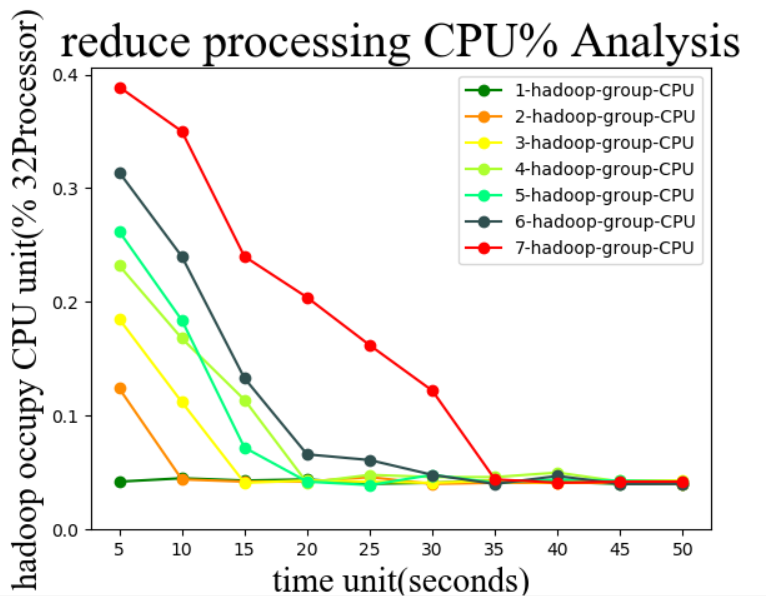
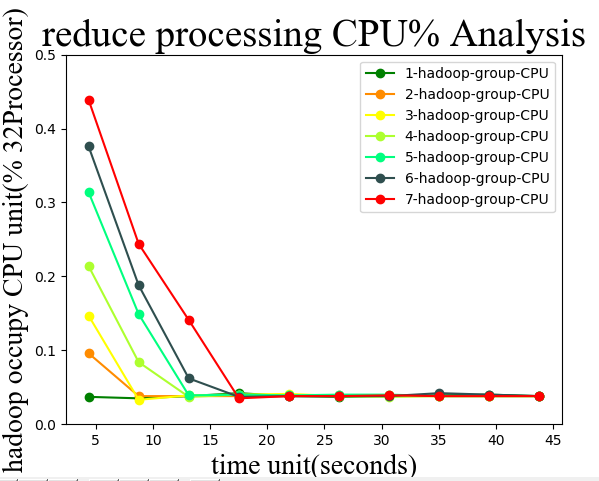
revise x interval from int to float

diff --git a/multi_group_cpu_reduce_contrast.py b/multi_group_cpu_reduce_contrast.py
@@ -1,14 +1,24 @@
 import numpy as np
 import matplotlib.pyplot as plt
 
-t = range(5,55,5)
-CPU_1 = [0.042, 0.045, 0.043, 0.044, 0.04, 0.041, 0.043, 0.042, 0.04, 0.04]
-CPU_2 = [0.124, 0.044, 0.042, 0.042, 0.046, 0.04, 0.041, 0.041, 0.041, 0.04]
-CPU_3 = [0.185, 0.112, 0.041, 0.043, 0.042, 0.041, 0.043, 0.041, 0.043, 0.043]
-CPU_4 = [0.232, 0.168, 0.114, 0.041, 0.048, 0.046, 0.046, 0.05, 0.042, 0.04]
-CPU_5 = [0.262, 0.184, 0.072, 0.042, 0.039, 0.048, 0.041, 0.044, 0.043, 0.042]
-CPU_6 = [0.314, 0.24, 0.133, 0.066, 0.061, 0.048, 0.04, 0.047, 0.04, 0.04]
-CPU_7 = [0.389, 0.35, 0.24, 0.204, 0.162, 0.122, 0.044, 0.041, 0.042, 0.042]
+t = np.arange(4.38,44,4.38)
+# CPU_1 = [0.042, 0.045, 0.043, 0.044, 0.04, 0.041, 0.043, 0.042, 0.04, 0.04]
+# CPU_2 = [0.124, 0.044, 0.042, 0.042, 0.046, 0.04, 0.041, 0.041, 0.041, 0.04]
+# CPU_3 = [0.185, 0.112, 0.041, 0.043, 0.042, 0.041, 0.043, 0.041, 0.043, 0.043]
+# CPU_4 = [0.232, 0.168, 0.114, 0.041, 0.048, 0.046, 0.046, 0.05, 0.042, 0.04]
+# CPU_5 = [0.262, 0.184, 0.072, 0.042, 0.039, 0.048, 0.041, 0.044, 0.043, 0.042]
+# CPU_6 = [0.314, 0.24, 0.133, 0.066, 0.061, 0.048, 0.04, 0.047, 0.04, 0.04]
+# CPU_7 = [0.389, 0.35, 0.24, 0.204, 0.162, 0.122, 0.044, 0.041, 0.042, 0.042]
+
+
+
+CPU_1 = [0.037, 0.035, 0.038, 0.042, 0.038, 0.037, 0.038, 0.039, 0.040, 0.038]
+CPU_2 = [0.096, 0.038, 0.038, 0.038, 0.038, 0.039, 0.038, 0.038, 0.038, 0.038]
+CPU_3 = [0.147, 0.033, 0.039, 0.04, 0.041, 0.038, 0.039, 0.038, 0.038, 0.038]
+CPU_4 = [0.214, 0.084, 0.037, 0.04, 0.039, 0.038, 0.037, 0.038, 0.038, 0.038]
+CPU_5 = [0.314, 0.149, 0.039, 0.04, 0.039, 0.04, 0.04, 0.038, 0.038, 0.038]
+CPU_6 = [0.376, 0.188, 0.062, 0.037, 0.038, 0.038, 0.038, 0.042, 0.04, 0.038]
+CPU_7 = [0.439, 0.244, 0.141, 0.035, 0.038, 0.038, 0.039, 0.038, 0.038, 0.038]
 
 
 font1 = {
@@ -34,8 +44,8 @@ l7, = plt.plot(t,CPU_7,color='red',marker="o",label='7 hadoop group')
 #l2, = plt.plot(x2,multi,color='red',label='multi hadoop group')
 # color: darkorange lightcoral darkgoldenrod yellow greenyellow springgreen darkslategrey deepskyblue fushsia blue
 
-x_ticks = np.arange(5,55,5)
-y_ticks = np.arange(0,0.5,0.1)
+x_ticks = range(5,50,5)
+y_ticks = np.arange(0,0.6,0.1)
 
 plt.legend(handles=[l1,l2,l3,l4,l5,l6,l7],labels=['1-hadoop-group-CPU','2-hadoop-group-CPU','3-hadoop-group-CPU','4-hadoop-group-CPU','5-hadoop-group-CPU','6-hadoop-group-CPU','7-hadoop-group-CPU'],loc="best")
 plt.xlabel('time unit(seconds)',font2)

diff --git a/multi_group_memory_reduce_contrast.py b/multi_group_memory_reduce_contrast.py
@@ -1,14 +1,22 @@
 import numpy as np
 import matplotlib.pyplot as plt
 
-t = range(5,55,5)
-MEM_1 = [0.034, 0.034, 0.034, 0.034, 0.034, 0.034, 0.034, 0.034, 0.034, 0.034]
-MEM_2 = [0.069, 0.034, 0.034, 0.034, 0.034, 0.034, 0.034, 0.034, 0.034, 0.034]
-MEM_3 = [0.105, 0.07, 0.034, 0.034, 0.034, 0.034, 0.034, 0.034, 0.034, 0.034]
-MEM_4 = [0.143, 0.107, 0.07, 0.034, 0.034, 0.034, 0.034, 0.034, 0.034, 0.034]
-MEM_5 = [0.177, 0.141, 0.089, 0.042, 0.033, 0.033, 0.033, 0.033, 0.033, 0.033]
-MEM_6 = [0.212, 0.176, 0.14, 0.088, 0.041, 0.032, 0.032, 0.032, 0.032, 0.032]
-MEM_7 = [0.25, 0.224, 0.178, 0.141, 0.105, 0.069, 0.033, 0.033, 0.033, 0.033]
+t = np.arange(4.38,44,4.38)
+# MEM_1 = [0.034, 0.034, 0.034, 0.034, 0.034, 0.034, 0.034, 0.034, 0.034, 0.034]
+# MEM_2 = [0.069, 0.034, 0.034, 0.034, 0.034, 0.034, 0.034, 0.034, 0.034, 0.034]
+# MEM_3 = [0.105, 0.07, 0.034, 0.034, 0.034, 0.034, 0.034, 0.034, 0.034, 0.034]
+# MEM_4 = [0.143, 0.107, 0.07, 0.034, 0.034, 0.034, 0.034, 0.034, 0.034, 0.034]
+# MEM_5 = [0.177, 0.141, 0.089, 0.042, 0.033, 0.033, 0.033, 0.033, 0.033, 0.033]
+# MEM_6 = [0.212, 0.176, 0.14, 0.088, 0.041, 0.032, 0.032, 0.032, 0.032, 0.032]
+# MEM_7 = [0.25, 0.224, 0.178, 0.141, 0.105, 0.069, 0.033, 0.033, 0.033, 0.033]
+
+MEM_1 = [0.03, 0.03, 0.03, 0.03, 0.03, 0.03, 0.03, 0.03, 0.03, 0.03]
+MEM_2 = [0.067, 0.03, 0.03, 0.03, 0.03, 0.03, 0.03, 0.03, 0.03, 0.03]
+MEM_3 = [0.102, 0.03, 0.03, 0.03, 0.03, 0.03, 0.03, 0.03, 0.03, 0.03]
+MEM_4 = [0.14, 0.067, 0.03, 0.03, 0.03, 0.03, 0.03, 0.03, 0.03, 0.03]
+MEM_5 = [0.175, 0.103, 0.03, 0.03, 0.03, 0.03, 0.03, 0.03, 0.03, 0.03]
+MEM_6 = [0.21, 0.139, 0.05, 0.03, 0.03, 0.03, 0.03, 0.03, 0.03, 0.03]
+MEM_7 = [0.247, 0.175, 0.103, 0.03, 0.03, 0.03, 0.03, 0.03, 0.03, 0.03]
 
 font1 = {
 'family' : 'Times New Roman',
@@ -33,8 +41,8 @@ l7, = plt.plot(t,MEM_7,color='red',marker="o",label='7 hadoop group')
 #l2, = plt.plot(x2,multi,color='red',label='multi hadoop group')
 # color: darkorange lightcoral darkgoldenrod yellow greenyellow springgreen darkslategrey deepskyblue fushsia blue
 
-x_ticks = np.arange(5,55,5)
-y_ticks = np.arange(0,0.4,0.05)
+x_ticks = range(5,50,5)
+y_ticks = np.arange(0,0.35,0.05)
 
 plt.legend(handles=[l1,l2,l3,l4,l5,l6,l7],labels=['1-hadoop-group-MEM','2-hadoop-group-MEM','3-hadoop-group-MEM','4-hadoop-group-MEM','5-hadoop-group-MEM','6-hadoop-group-MEM','7-hadoop-group-MEM'],loc="best")
 plt.xlabel('time unit(seconds)',font2)

diff --git a/multi_group_time_long_run_contrast.py b/multi_group_time_long_run_contrast.py
@@ -4,7 +4,9 @@ import matplotlib.pyplot as plt
 x1 = [1,2,3,4,5,6,7,8,9,10]
 single = [21.314,42.573,63.922,85.241,106.107,127.412,148.722,170.032,191.343,212.658]
 x2 = [1,2,3,4,5,6,7,8,9,10]
-multi = [21.308,44.21,46.562,51.364,52.063,55.871,62.365,85.377,106.564,101.499]
+auto_scaling = [21.326,55.548,54.235,52.982,55.063,59.871,62.999,85.377,106.564,101.499]
+x3 = [1,2,3,4,5,6,7,8,9,10]
+long_run = [21.308,44.21,46.562,51.364,52.063,55.871,62.365,85.377,106.564,101.499]
 
 font1 = {
 'family' : 'Times New Roman',
@@ -20,14 +22,15 @@ font2 = {
 
 plt.title('long run processing time Analysis',font1)
 l1, = plt.plot(x1,single,color='green',marker="o",label='single hadoop group')
-l2, = plt.plot(x2,multi,color='red',marker="o",label='multi hadoop group')
+l2, = plt.plot(x2,auto_scaling,color='red',marker="o",label='auto-scaling hadoop group')
+l3, = plt.plot(x3,long_run,color='deepskyblue',marker='o',label='long run group')
 
 # color: darkorange lightcoral darkgoldenrod yellow greenyellow springgreen darkslategrey deepskyblue fushsia blue
 
 x_ticks = np.arange(1,11,1)
 y_ticks = np.arange(0,230,20)
 
-plt.legend(handles=[l1,l2,],labels=['single','multi'],loc="best")
+plt.legend(handles=[l1,l2,l3,],labels=['single','auto-scaling','long-run'],loc="best")
 plt.xlabel('hadoop task request numbers  unit(1)',font2)
 plt.ylabel('processing time  unit(seconds)',font2)
 
